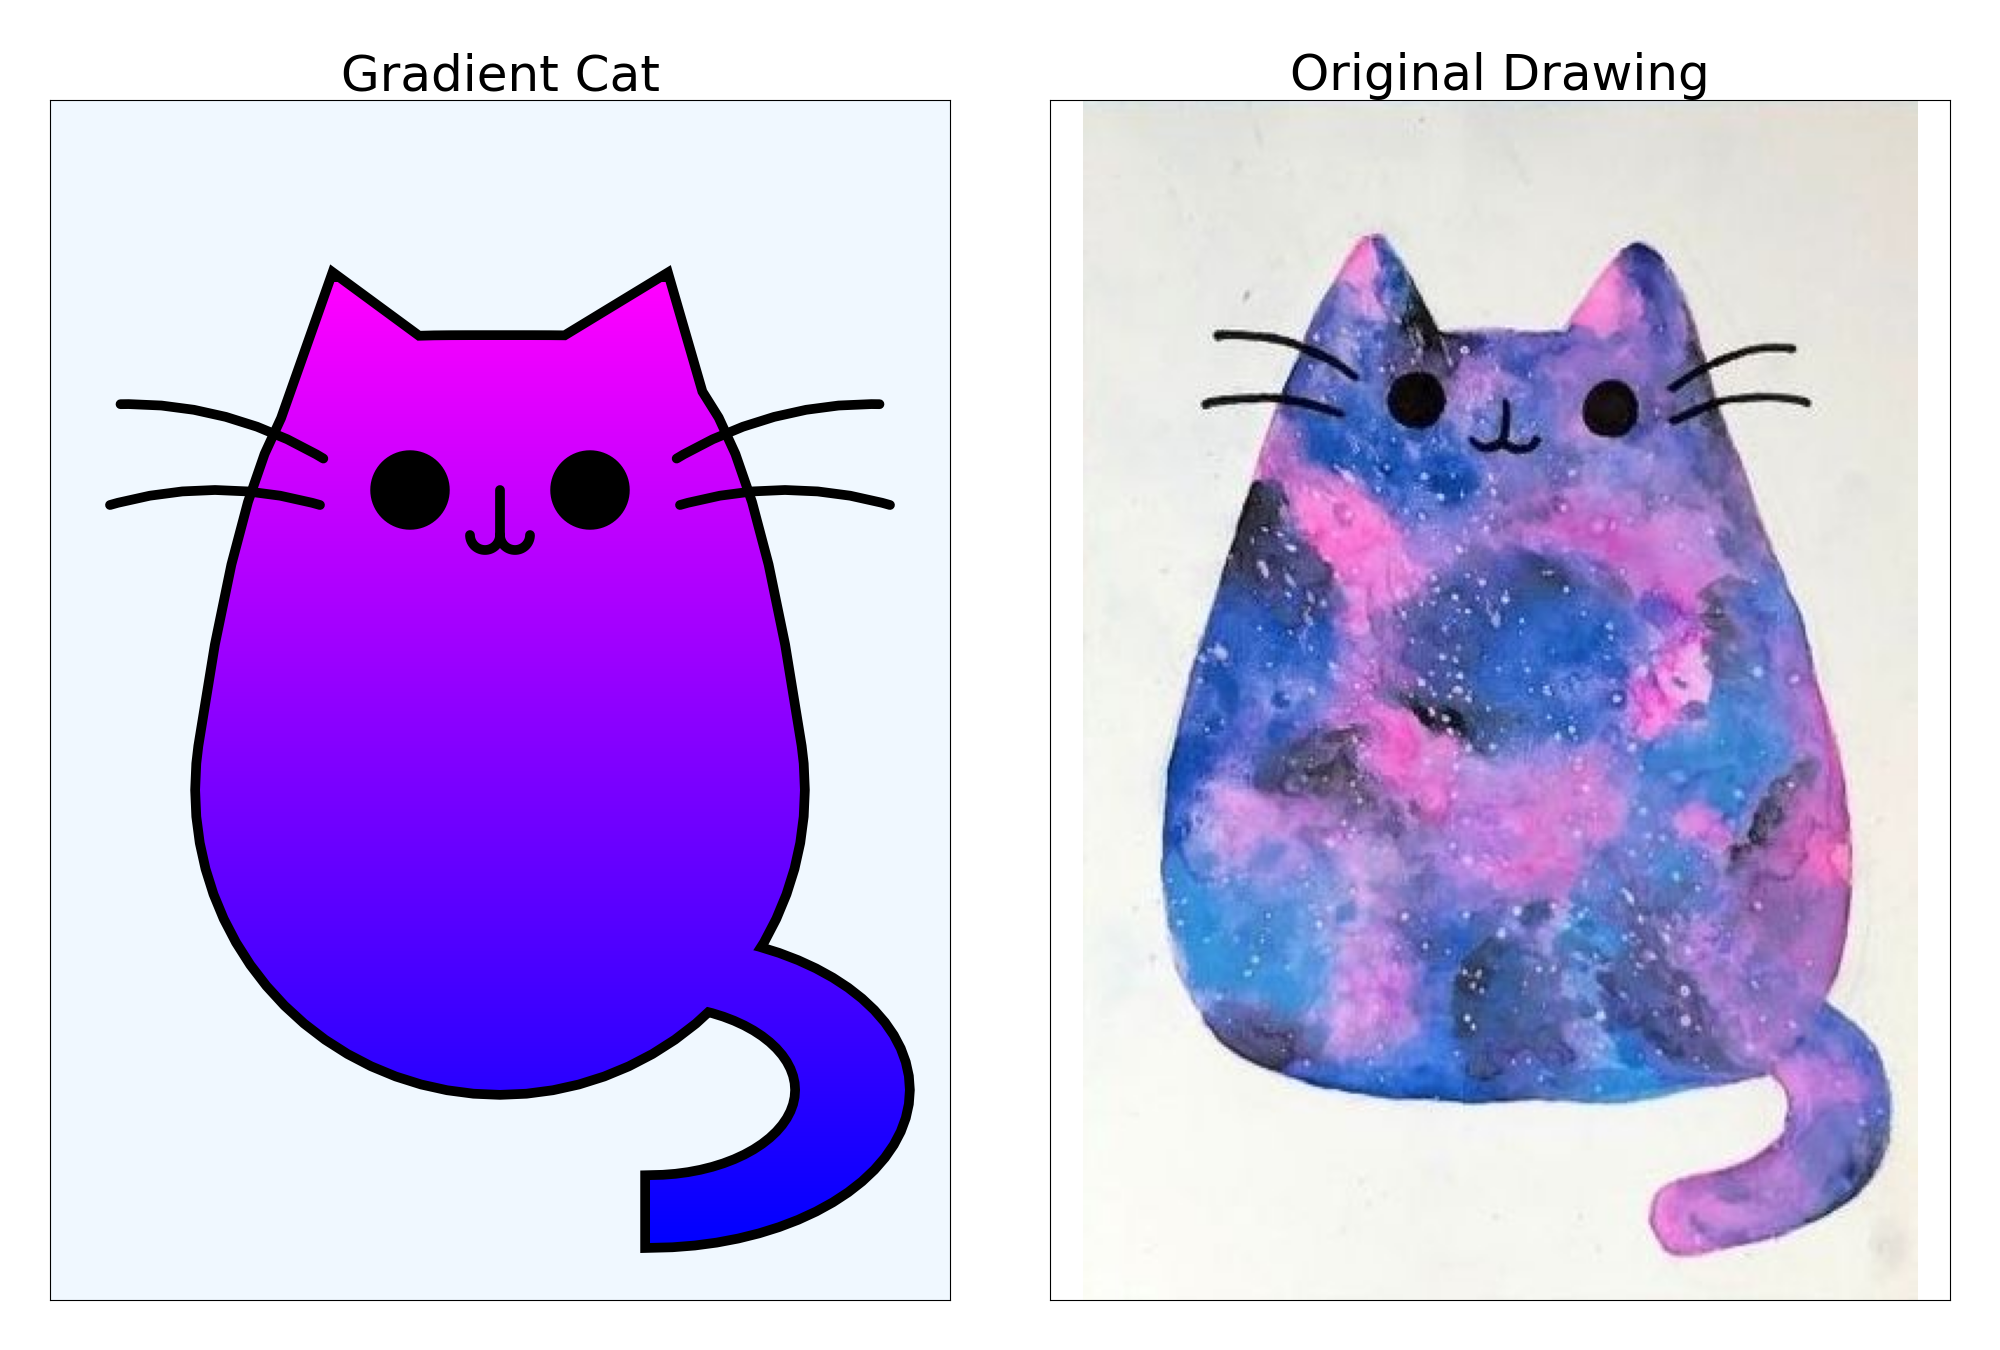
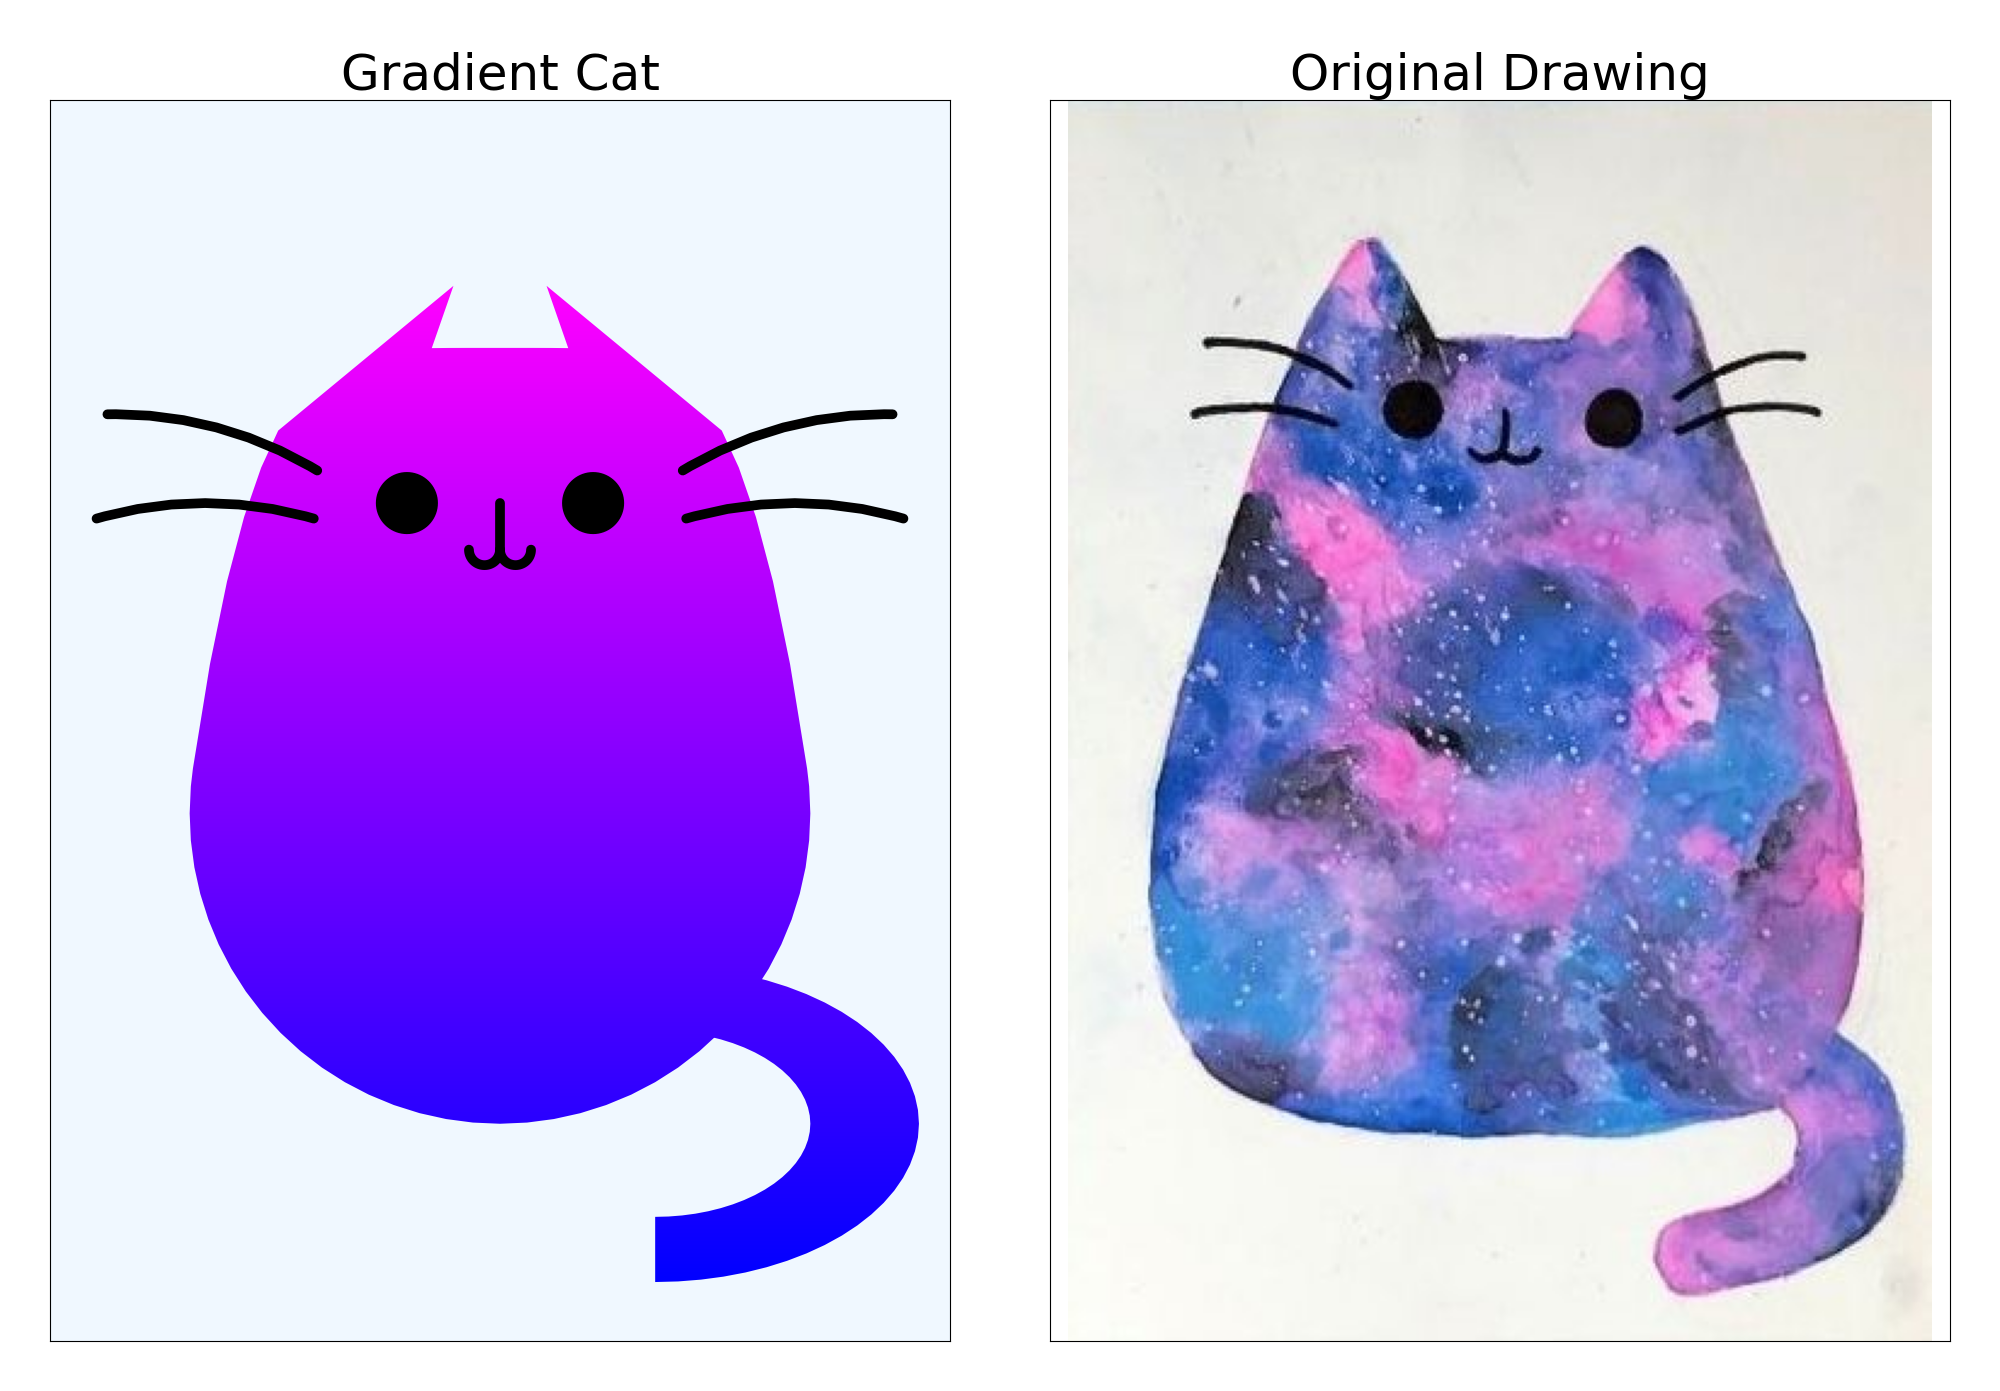
corrected symmetry

diff --git a/draw_a_cat_with_gradient_fur.py b/draw_a_cat_with_gradient_fur.py
@@ -2,14 +2,15 @@
 from zyxxy_canvas import create_canvas_and_axes, show_drawing_and_save_if_needed
 from zyxxy_shape_functions import draw_a_rectangle, draw_a_circle, draw_a_smile, draw_a_polygon, draw_a_segment
 from zyxxy_shape_class import shift_layer
-from zyxxy_shape_style import set_default_line_style, set_default_outline_style
+from zyxxy_shape_style import set_default_line_style#, set_default_outline_style
 from zyxxy_colours import create_gradient_colours
 from zyxxy_coordinates import build_an_egg, build_an_arc, link_contours
+from zyxxy_utils import is_contour_V_symmetric, conc_contours, remove_contour_points
 import numpy as np
 
 #######################################################
 # Creating the canvas!                               ##
-ax = create_canvas_and_axes(  canvas_width = 30,
+ax = create_canvas_and_axes(  canvas_width = 29,
                               canvas_height = 40,
                               make_symmetric = True,
                               #tick_step = 2,
@@ -17,8 +18,8 @@ ax = create_canvas_and_axes(  canvas_width = 30,
                               title = "Gradient Cat",
                               background_colour='aliceblue')
 
-set_default_outline_style(linewidth=7*2)
-set_default_line_style(linewidth=7)
+#set_default_outline_style(linewidth=8, joinstyle="round")#, colour=None)
+set_default_line_style(linewidth=7, joinstyle="round")
 
 body_height=25
 eye_y = 11
@@ -45,10 +46,23 @@ for e_start, p in enumerate(body_shape):
 for e_end, p in enumerate(body_shape):
   if p[1] < -2:
     break
+#
+assert(is_contour_V_symmetric(body_shape))
+# adding dummy 0th point
+# to match points 1 and -1, 2 and -2 etc.
+body_shape = conc_contours(body_shape[0:1, :], body_shape)
 
+# using the matching
 for lr in [-1, 1]:
-  body_shape[lr*e_start, :] = [-5.5 * lr, ear_height]
-  body_shape = np.delete(body_shape, np.arange(lr*(e_start+1), lr*e_end, lr), axis=0)
+  body_shape[e_start * lr, :] = [-1.5 * lr, ear_height]
+  range_to_remove = lr * np.arange(e_start+1, e_end+1) 
+  body_shape = remove_contour_points(contour=body_shape, range_to_remove=range_to_remove)
+
+# remove the dummy 0th point 
+body_shape = remove_contour_points(contour=body_shape, range_to_remove=[0])
+
+assert(is_contour_V_symmetric(body_shape))
+
 
 body_shape[:, 1] += body_height + body_bottom
 
@@ -57,7 +71,7 @@ body = draw_a_polygon(ax=ax, contour=body_shape)
 #gradient rectangles
 gradient_colours = create_gradient_colours(rgb_start=[0, 0, 255], rgb_end=(255, 0, 255))
 gradient_bottom = body_bottom - tail_coeff * tail_height
-grh = (ear_height + body_height + tail_coeff * tail_height) / len(gradient_colours)
+grh = (ear_height + body_height + tail_coeff * tail_height) / (len(gradient_colours) - 1)
 for i, gc in enumerate(gradient_colours):
   draw_a_rectangle(ax=ax, width=30, height=grh, centre_x=0, centre_y=gradient_bottom+i*grh, opacity=1, clip_outline=body, colour=gc, outline_linewidth=0)
   draw_a_rectangle(ax=ax, width=30, height=grh, centre_x=0, centre_y=gradient_bottom+i*grh, opacity=1, clip_outline=tail_shape, colour=gc, outline_linewidth=0)

diff --git a/zyxxy_utils.py b/zyxxy_utils.py
@@ -36,7 +36,7 @@ def is_the_same_point(p1, p2):
   return (sqr_dist < tolerance)
 
 ##################################################################
-def conc_1_or_2_dim(a, b):
+def conc_contours(a, b):
   if a.ndim != b.ndim:
     raise Exception("Dimension number mismatch", a.ndim, "!=", b.ndim)
   if a.ndim == 1:
@@ -50,11 +50,47 @@ def is_the_same_contour(p1, p2, start_1=0, start_2=0, opposite_directions=False)
   if (p1.size == 0):
     return True
     
-  p1_modif = conc_1_or_2_dim(p1[start_1:-1], p1[:start_1])
-  p2_modif = conc_1_or_2_dim(p2[start_2:-1], p2[:start_2])
+  p1_modif = conc_contours(p1[start_1:-1], p1[:start_1])
+  p2_modif = conc_contours(p2[start_2:-1], p2[:start_2])
   if opposite_directions:
     p2_modif = p2_modif[::-1]
   result = is_the_same_point(p1=p1_modif, p2=p2_modif)
+  return result
+
+##################################################################
+def is_contour_V_symmetric(contour):
+  result = is_the_same_contour(contour[:, 0], -contour[::-1][:, 0])
+  return result
+
+##################################################################
+def remove_contour_points(contour, range_to_remove):
+  result = np.delete(contour, range_to_remove, axis=0)
+  return result
+
+#####################################################
+def link_contours(*arg):
+  result = np.empty((2, 0))
+  for _a in arg:
+    if isinstance(_a, np.ndarray):
+      a = _a
+    else:
+      a = np.array(_a, np.float64)
+    if (a.size == 0):
+      continue
+    if (result.size == 0):
+      result = a
+      continue
+    if is_the_same_point(p1=result[-1], p2=a[0]):
+      result = conc_contours(result[:-1], a)
+    else:
+      result = conc_contours(result, a)
+  return result
+
+#####################################################
+def add_a_left_mirror(contour, mirror_x=0):
+  reverse_contour = np.copy(contour[::-1, :])
+  reverse_contour[:, 0] = 2 * mirror_x - reverse_contour[:, 0]
+  result = link_contours(reverse_contour, contour)
   return result
 
 ##################################################################

diff --git a/zyxxy_coordinates.py b/zyxxy_coordinates.py
@@ -15,7 +15,7 @@
 ########################################################################
 
 import numpy as np
-from zyxxy_utils import sin_hours, cos_hours, asin_hours, acos_hours, atan_hours, is_the_same_point, my_default_vertices_qty_in_circle, full_turn_angle, conc_1_or_2_dim
+from zyxxy_utils import sin_hours, cos_hours, asin_hours, acos_hours, atan_hours, is_the_same_point, my_default_vertices_qty_in_circle, full_turn_angle, link_contours, add_a_left_mirror
 
 from scipy.optimize import fsolve
 from math import sqrt, ceil, floor
@@ -55,36 +55,6 @@ shape_names_params_dicts_definition = {
 ########################################################################
 
 sin_cos_std = [[sin_hours(a/my_default_vertices_qty_in_circle*full_turn_angle), cos_hours(a/my_default_vertices_qty_in_circle*full_turn_angle)] for a in range(my_default_vertices_qty_in_circle)]
-
-#####################################################
-## contours manipulation                           ##
-#####################################################
-
-#####################################################
-def link_contours(*arg):
-  result = np.empty((2, 0))
-  for _a in arg:
-    if isinstance(_a, np.ndarray):
-      a = _a
-    else:
-      a = np.array(_a, np.float64)
-    if (a.size == 0):
-      continue
-    if (result.size == 0):
-      result = a
-      continue
-    if is_the_same_point(p1=result[-1], p2=a[0]):
-      result = conc_1_or_2_dim(result[:-1], a)
-    else:
-      result = conc_1_or_2_dim(result, a)
-  return result
-
-#####################################################
-def add_a_left_mirror(contour, mirror_x=0):
-  reverse_contour = np.copy(contour[::-1, :])
-  reverse_contour[:, 0] = 2 * mirror_x - reverse_contour[:, 0]
-  result = link_contours(reverse_contour, contour)
-  return result
 
 #####################################################
 #####################################################
